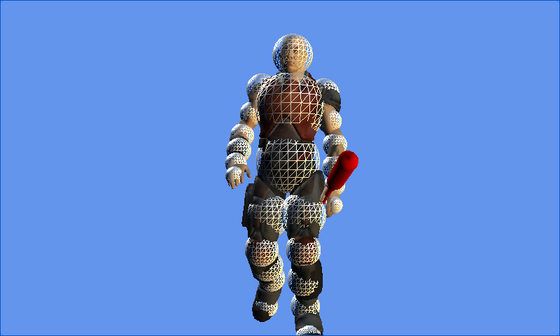
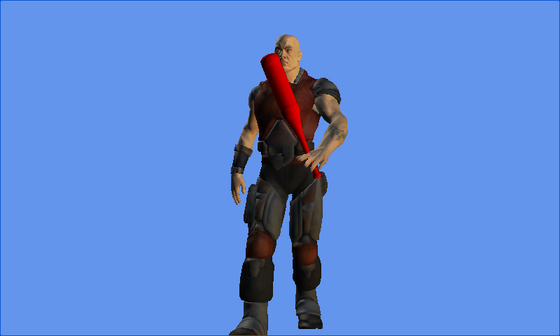
SAMPLE-055: show default game scene in gallery

Changed region(s): [[0.3946, 0.0893, 0.6375, 1.0]]

diff --git a/SkinnedModelExtensions.html b/SkinnedModelExtensions.html
@@ -13,7 +13,7 @@
   <div class="detail-head"><h1>Skinned Model Extensions</h1></div>
   <p class="origin">Ported from Microsoft's XNA 4.0 <em>Extending the Skinned Model Sample</em>.</p>
   <p class="sample-source"><a href="https://github.com/libcna/cna-samples/tree/develop/samples/SkinnedModelExtensions">Source for this sample on GitHub ↗</a></p>
-  <img class="shot" src="assets/img/skinned-model-extensions.png" width="800" height="480" alt="An animated armored character holding a red bat, with collision spheres drawn as white wireframes.">
+  <img class="shot" src="assets/img/skinned-model-extensions.png" width="800" height="480" alt="An animated character with an uncovered face holding a red baseball bat against a blue background.">
   <a class="play" href="SkinnedModelExtensions/SkinnedModelExtensions_cna_samples.html" target="_blank" rel="noopener">Play ▸</a>
   <p class="play-note">Opens in a new tab.</p>
   <nav class="pager pager-before-about" aria-label="Sample navigation">

diff --git a/page-5.html b/page-5.html
@@ -88,7 +88,7 @@
     <li class="card">
       <a href="SkinnedModelExtensions.html">
         <img src="assets/img/skinned-model-extensions-thumb.png" width="560" height="336"
-             alt="An animated armored character holding a red bat, with collision spheres drawn as white wireframes.">
+             alt="An animated character with an uncovered face holding a red baseball bat against a blue background.">
         <div class="card-body">
           <h2>Skinned Model Extensions</h2>
           <p>Turn animated bones, attach a baseball bat and inspect moving collision spheres.</p>
